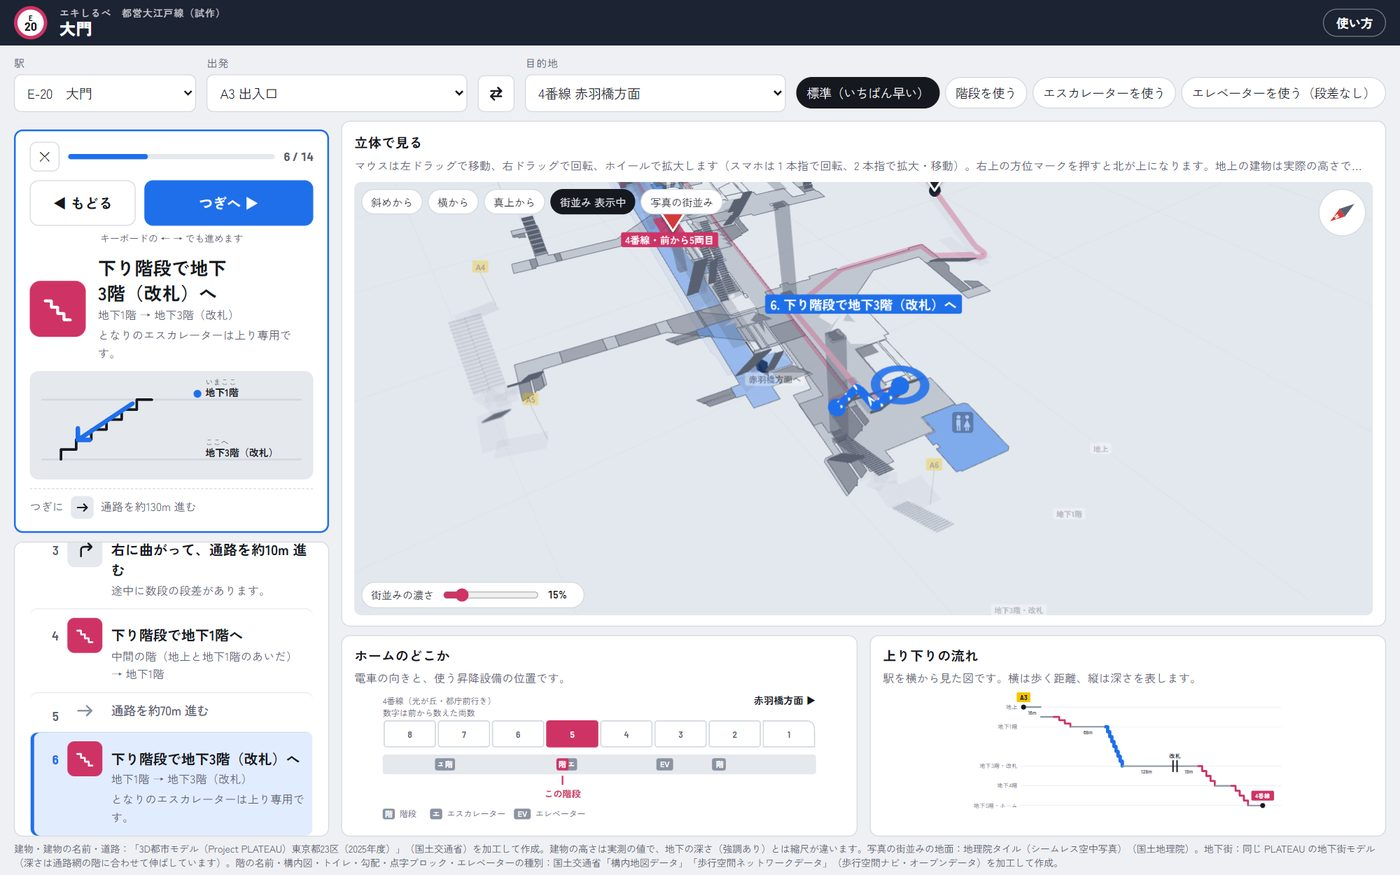
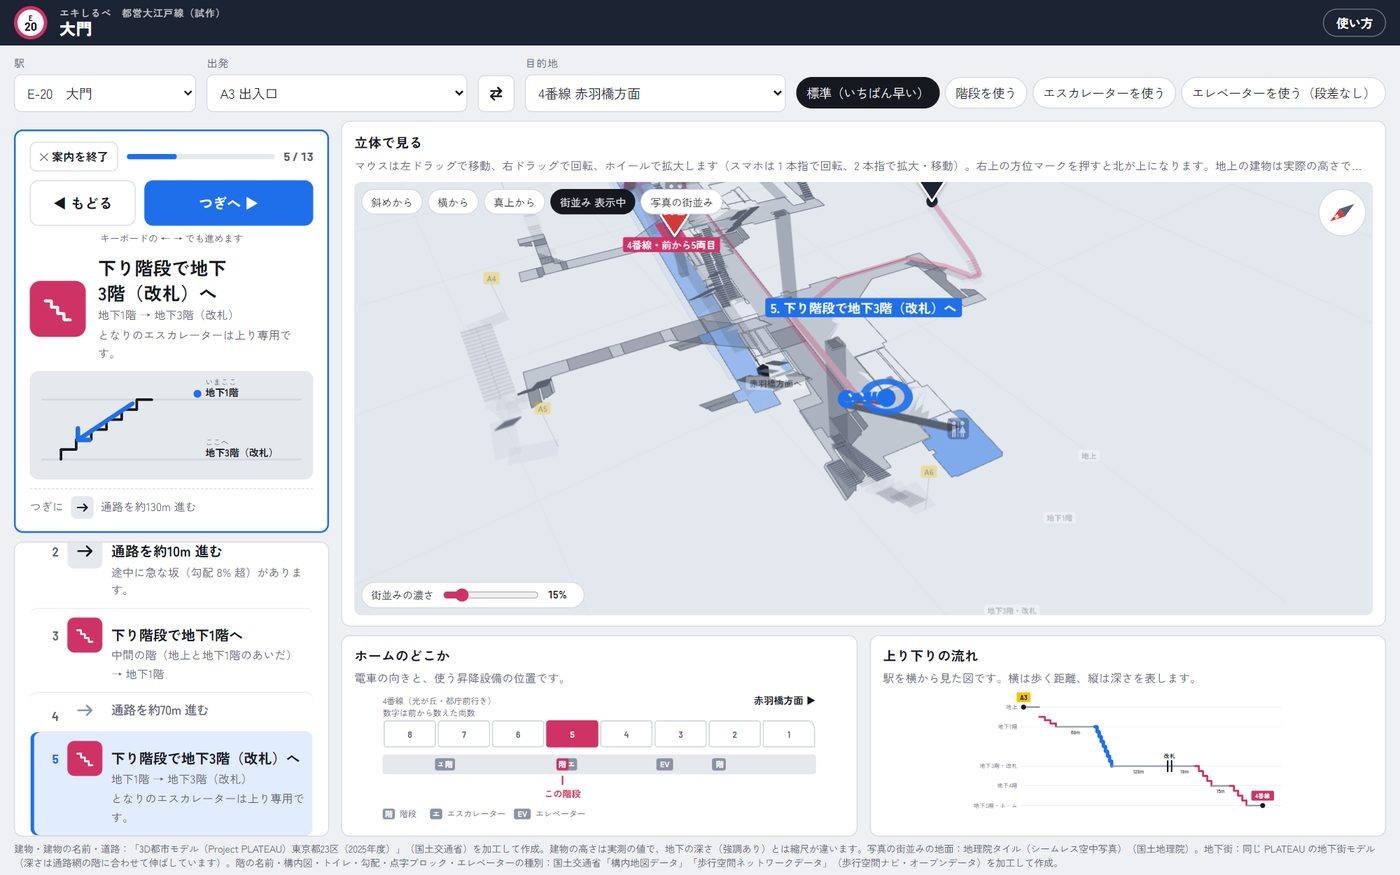
案内を終了するボタン（手動・自動で歩く）

diff --git a/index.html b/index.html
@@ -243,8 +243,9 @@ footer a { color: inherit; }
 .nav { background: var(--surface); border: 2px solid var(--sel); border-radius: var(--r); padding: 12px 16px 14px; display: grid; gap: 10px; }
 .navbar { display: flex; align-items: center; gap: 10px; }
 .navbar b { font-family: var(--f-num); font-size: 14px; color: var(--muted); font-variant-numeric: tabular-nums; flex: none; }
-.navx { font: inherit; border: 1px solid var(--line); background: var(--surface); color: var(--ink); border-radius: 8px;
-  width: 34px; height: 34px; cursor: pointer; flex: none; }
+.navx { font: inherit; font-size: 13px; font-weight: 700; border: 1px solid var(--line); background: var(--surface); color: var(--ink); border-radius: 8px;
+  height: 34px; padding: 0 10px; cursor: pointer; flex: none; white-space: nowrap; }
+.navx:hover { border-color: var(--sel); color: var(--sel); }
 .prog { flex: 1; height: 6px; border-radius: 999px; background: var(--faint); overflow: hidden; }
 .prog span { display: block; height: 100%; background: var(--sel); border-radius: 999px; }
 .navmain { display: flex; align-items: center; gap: 14px; }
@@ -2764,7 +2765,15 @@ var View3D = (function () {
       var cur = fpv && fpvWalk && fpvWalk.u != null ? fpvWalk.u : resumeU;
       resumeU = cur !== null && cur >= r[0] - 1e-6 && cur < r[1] ? cur : r[0];
     },
-    clearResume: function () { resumeU = null; } };
+    clearResume: function () { resumeU = null; },
+    // 自動で歩くのを終える: 止めて、続きの位置も消し、経路全体の見え方（リアル視点なら出発地点）に戻す
+    // （2026-10-09 利用者「自動案内中の終了にも対応してね」。「■ 止める」は一時停止で、続きから再開できる）
+    endPlay: function () {
+      if (!home) return;
+      play = null; resumeU = null; holdU = null; lastPlayStep = -1;
+      if (onStep) onStep(-1);
+      if (fpv) fpvStart(0); else setView('oblique');
+    } };
 })();
 
 </script>
@@ -3237,11 +3246,14 @@ var View3D = (function () {
     var g = state.g, i = state.nav, n = g.steps.length, s = g.steps[i], next = g.steps[i + 1];
     var sub = s.kind === 'vert' ? s.detail : s.detail || '';
     $('navbox').innerHTML = '<section class="nav" aria-label="案内" aria-live="polite">' +
-      '<div class="navbar"><button type="button" class="navx" data-nav="stop" aria-label="案内をやめる">✕</button>' +
+      // 終了ボタンは文字付き（✕ だけでは終わり方が分からなかった。2026-10-09 利用者「案内中に案内を終了することができるようにしてほしい」）
+      '<div class="navbar"><button type="button" class="navx" data-nav="stop" title="案内を終了する（Esc キー）">✕ 案内を終了</button>' +
         '<div class="prog" aria-hidden="true"><span style="width:' + (100 * i / (n - 1)) + '%"></span></div><b>' + (i + 1) + ' / ' + n + '</b></div>' +
       // ボタンは内容より上に置く（内容の長さでボタンの位置が上下しないように）
       '<div class="navctl"><button type="button" data-nav="prev"' + (i === 0 ? ' disabled' : '') + '>◀ もどる</button>' +
-        '<button type="button" class="primary" data-nav="next"' + (i === n - 1 ? ' disabled' : '') + '>' + (i === n - 1 ? '到着' : 'つぎへ ▶') + '</button></div>' +
+        // 最後の手順では「到着・案内を終了」で終える（前は押せない「到着」で、終わり方が無かった）
+        (i === n - 1 ? '<button type="button" class="primary" data-nav="stop">到着・案内を終了</button></div>'
+          : '<button type="button" class="primary" data-nav="next">つぎへ ▶</button></div>') +
       '<div class="navkeys">キーボードの ← → でも進めます</div>' +
       '<div class="navmain">' + stepIcon(s) + '<div class="navtx"><b>' + esc(s.title) + '</b>' +
         (sub ? '<small>' + esc(sub) + '</small>' : '') + (s.note ? '<small>' + esc(s.note) + '</small>' : '') + (s.where ? '<span class="where">' + esc(s.where) + '</span>' : '') + '</div></div>' +
@@ -3255,7 +3267,9 @@ var View3D = (function () {
       });
     });
   }
+  function endAuto() { View3D.endPlay(); syncResume(); }
   document.addEventListener('keydown', function (e) {
+    if (e.key === 'Escape' && state.g && state.nav < 0 && $('auto-walk') && $('auto-walk').getAttribute('aria-pressed') === 'true') { endAuto(); return; }
     if (!state.g || state.nav < 0 || /^(INPUT|SELECT|TEXTAREA)$/.test(e.target.tagName)) return;
     if (e.key === 'ArrowRight') { e.preventDefault(); moveNav(1); }
     else if (e.key === 'ArrowLeft') { e.preventDefault(); moveNav(-1); }
@@ -3334,7 +3348,16 @@ var View3D = (function () {
     View3D.onPlay = function (on) {
       var b = $('auto-walk'); if (!b) return;
       b.setAttribute('aria-pressed', on);
-      if (on) { b.textContent = '■ 止める'; b.title = '自動で歩くのを止める'; }
+      if (on) {
+        b.textContent = '■ 止める'; b.title = '自動で歩くのを止める（止めた所から続きを再開できます）';
+        // 自動で歩いているあいだは「案内を終了」も出す（止めるは一時停止。2026-10-09 利用者「自動案内中の終了にも対応してね」）
+        var box = $('resume');
+        if (box) {
+          box.hidden = false;
+          box.innerHTML = '<span>自動で歩いています</span><button type="button" id="end-auto" title="自動で歩くのを終える（Esc キー）">✕ 案内を終了</button>';
+          $('end-auto').addEventListener('click', endAuto);
+        }
+      }
       else syncResume();
     };
     View3D.onStep = function (i) {

diff --git a/manual.html b/manual.html
@@ -93,7 +93,8 @@ a { color: var(--sel); }
     <div>
       <p>「<span class="sel">▶ 案内をはじめる</span>」か、左の「歩く順番」の手順を押すと、案内カードが出ます。</p>
       <ul>
-        <li><b>◀ もどる／つぎへ ▶</b> で 1 手順ずつ進みます（パソコンは ← → キーでも。Esc でやめる）。屋内では現在地が取れないので、歩いたら「つぎへ」を押してください。</li>
+        <li><b>◀ もどる／つぎへ ▶</b> で 1 手順ずつ進みます（パソコンは ← → キーでも）。屋内では現在地が取れないので、歩いたら「つぎへ」を押してください。</li>
+        <li>途中でやめるときは、案内の左上の <b>✕ 案内を終了</b>（パソコンは Esc キーでも）。最後の手順では「つぎへ」が <b>到着・案内を終了</b> に変わり、押すと案内を終えます。途中でやめたときは、その手順から「続きから案内」で再開できます。</li>
         <li>上り下りの手順には、<b>いまここ</b>と<b>ここへ</b>の階、階段・エスカレーター・エレベーターの形と向きのイラストが出ます。</li>
         <li>改札の手順では、改札機を<span class="gate">緑の矢印</span>に沿って人が通り抜けます。出入口からホームへは「改札に入る」、ホームから出入口へは「改札を出る」。</li>
         <li>通路の途中で大きく向きを変えるところは、「右に曲がって、通路を約◯m 進む」「左に曲がって、…」「折り返して、…」と分けて出します。</li>
@@ -113,7 +114,7 @@ a { color: var(--sel); }
     <li><b>いまの区間</b>は、青い細い円柱の矢印で、白い「＞」の模様が進む向きに流れます。玉が始まり、矢じりが終わりです。いま歩いている階は濃く、ほかの階は薄くなります。</li>
     <li>階段・エスカレーター・エレベーターの<b>入口に波紋</b>が出ます。</li>
     <li>右上の<b>方位マーク</b>は視点と一緒に回ります。押すと北が上になります。</li>
-    <li>上のボタンで<b>斜めから／横から／真上から</b>に切り替えられます。進め方は左の 2 つのボタンです。「<b>▶ 案内をはじめる</b>」は 1 手順ずつ「つぎへ」で進める手動の案内、「<b>▶ 自動で歩く</b>」は経路全体を自動で後ろから追いかけます。自動で歩いているあいだはボタンが「<b>■ 止める</b>」に変わり、押すとその場で止まります（立体図をドラッグしても止まります）。止めた所や、手動の案内を閉じた手順は覚えていて、ボタンが「<b>▶ 続きから歩く</b>」「<b>▶ 続きから案内</b>」に変わり、「手順 6『…』から再開します」と出ます。最初からにしたいときは「<b>最初からにする</b>」を押します（歩き終えたときと、経路を選び直したときも最初からに戻ります）。</li>
+    <li>上のボタンで<b>斜めから／横から／真上から</b>に切り替えられます。進め方は左の 2 つのボタンです。「<b>▶ 案内をはじめる</b>」は 1 手順ずつ「つぎへ」で進める手動の案内、「<b>▶ 自動で歩く</b>」は経路全体を自動で後ろから追いかけます。自動で歩いているあいだはボタンが「<b>■ 止める</b>」に変わり、押すとその場で止まります（立体図をドラッグしても止まります）。止めずに終えるときは、ボタンの上の「<b>✕ 案内を終了</b>」（パソコンは Esc キーでも）。経路全体の見え方（リアル視点なら出発地点）に戻り、次は最初からになります。止めた所や、手動の案内を閉じた手順は覚えていて、ボタンが「<b>▶ 続きから歩く</b>」「<b>▶ 続きから案内</b>」に変わり、「手順 6『…』から再開します」と出ます。最初からにしたいときは「<b>最初からにする</b>」を押します（歩き終えたときと、経路を選び直したときも最初からに戻ります）。</li>
     <li>階段・エスカレーターは、画面上で急すぎるとき（35 度より急）は 35 度で描きます。元データでは長い階段が短く記録されていることがあるためで、その分、手前の通路の線は短くなります。</li>
     <li>高さは見やすいように強調しています。データには実際の深さが無いので、階の順番を見やすく並べたものです。出発は紺の「出発」、目的地は赤の「到着」のピンで示します。</li>
   </ul>
